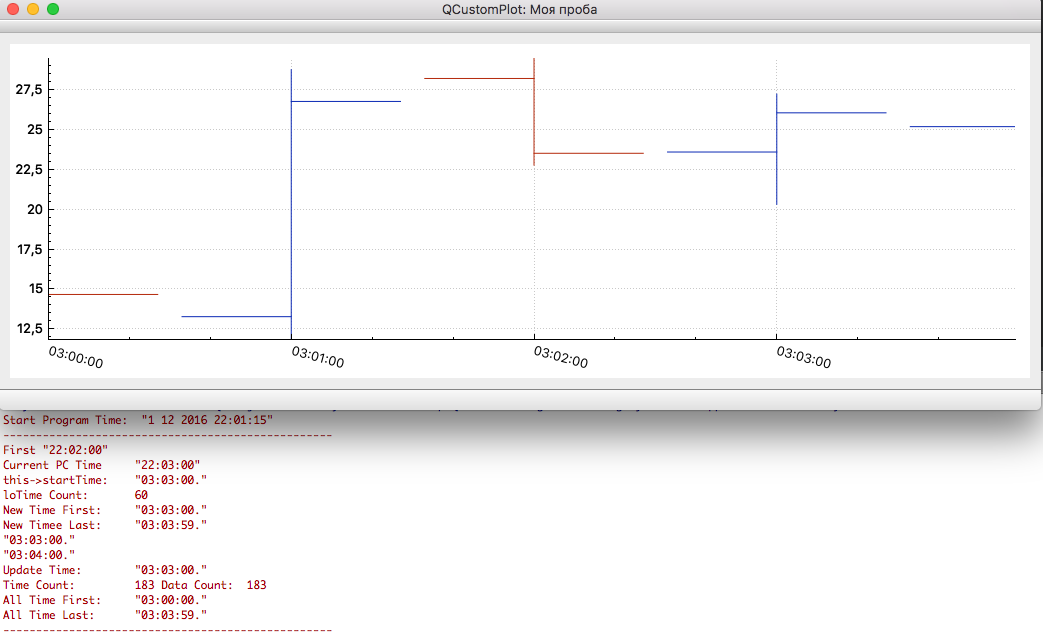
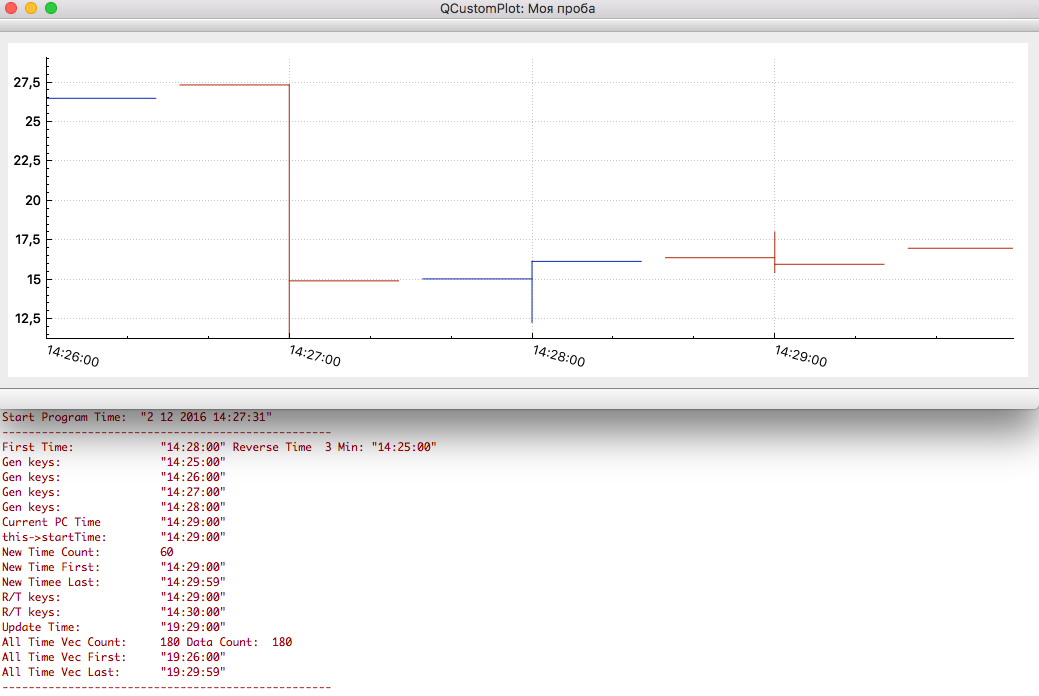
Align debug output

diff --git a/mainwindow.cpp b/mainwindow.cpp
@@ -51,7 +51,8 @@ void MainWindow::everySecSlot()
             QDateTime setupTime = QDateTime(QDate::currentDate(), sqtime );
             setupTime.setTimeSpec(Qt::UTC);
             QDateTime startProgBackTime = setupTime.addSecs( 0-(genTimeMinutes*60) );
-            qDebug() << "First" << setupTime.toString("hh:mm:ss");
+            qDebug() << "First Time:            " << setupTime.toString("hh:mm:ss") << "Reverse Time " << genTimeMinutes << "Min:" << startProgBackTime.toString("hh:mm:ss");
+
             this->startTime         = setupTime.toTime_t();
             this->graphStartTime    = startProgBackTime.toTime_t();
 
@@ -59,6 +60,10 @@ void MainWindow::everySecSlot()
             InitRandomData(volTime, volData, graphStartTime, genTimeMinutes );
 
             QCPFinancialDataMap data2 = QCPFinancial::timeSeriesToOhlc(volTime, volData, timeBinSize, 60);
+            // Debug output
+            QMap<double,QCPFinancialData>::iterator it = data2.begin();
+            for(;it != data2.end(); ++it)
+                qDebug() << "Gen keys:              " << QDateTime::fromTime_t( it.key()  ).toUTC().toString("hh:mm:ss");
 
             ohlc->setData(&data2, true);
             ui->customPlot->rescaleAxes();
@@ -73,22 +78,22 @@ void MainWindow::realtimeMyDataSlot()
 {
 
     QVector<double> loTime, loData;
-    qDebug() << "Current PC Time    " << QTime::currentTime().toString("hh:mm:ss");
+    qDebug() << "Current PC Time        " << QTime::currentTime().toString("hh:mm:ss");
 
     this->startTime += 60;
-    qDebug() << "this->startTime:   " << QDateTime::fromTime_t(this->startTime).toString("hh:mm:ss.");
+    qDebug() << "this->startTime:       " << QDateTime::fromTime_t(this->startTime).toUTC().toString("hh:mm:ss");
 
     InitRandomData(loTime, loData, this->startTime );
 
-    qDebug() << "loTime Count:      " << loTime.count();
-    qDebug() << "New Time First:    " << QDateTime::fromTime_t( loTime.first() ).toString("hh:mm:ss.");
-    qDebug() << "New Timee Last:    " << QDateTime::fromTime_t( loTime.last()  ).toString("hh:mm:ss.");
+    qDebug() << "New Time Count:        " << loTime.count();
+    qDebug() << "New Time First:        " << QDateTime::fromTime_t( loTime.first() ).toUTC().toString("hh:mm:ss");
+    qDebug() << "New Timee Last:        " << QDateTime::fromTime_t( loTime.last()  ).toUTC().toString("hh:mm:ss");
 
     QCPFinancialDataMap dataNew = QCPFinancial::timeSeriesToOhlc(loTime, loData, this->timeBinSize, 0);
 
     QMap<double,QCPFinancialData>::iterator it = dataNew.begin();
     for(;it != dataNew.end(); ++it)
-        qDebug() << QDateTime::fromTime_t( it.key()  ).toString("hh:mm:ss.");
+        qDebug() << "R/T keys:              " << QDateTime::fromTime_t( it.key()  ).toUTC().toString("hh:mm:ss");
 
     // Add local temp new data/time
     ohlc->addData( dataNew );
@@ -106,10 +111,10 @@ void MainWindow::realtimeMyDataSlot()
     // Set Axis size for global time/data
     ui->customPlot->xAxis->setRange( volTime.first(), volTime.last() );
 
-    qDebug() << "Update Time:       " << QDateTime::fromTime_t(this->startTime).toString("hh:mm:ss.");
-    qDebug() << "Time Count:        " << volTime.count() << "Data Count: "  << volData.count();
-    qDebug() << "All Time First:    " << QDateTime::fromTime_t( volTime.first() ).toString("hh:mm:ss.");
-    qDebug() << "All Time Last:     " << QDateTime::fromTime_t( volTime.last()  ).toString("hh:mm:ss.");
+    qDebug() << "Update Time:           " << QDateTime::fromTime_t(this->startTime).toString("hh:mm:ss");
+    qDebug() << "All Time Vec Count:    " << volTime.count() << "Data Count: "  << volData.count();
+    qDebug() << "All Time Vec First:    " << QDateTime::fromTime_t( volTime.first() ).toLocalTime().toString("hh:mm:ss");
+    qDebug() << "All Time Vec Last:     " << QDateTime::fromTime_t( volTime.last()  ).toLocalTime().toString("hh:mm:ss");
 
     ui->customPlot->replot();
     ui->customPlot->rescaleAxes();
@@ -135,9 +140,10 @@ void MainWindow::InitRandomData(QVector<double> &ivolTime, QVector<double> &ivol
     uint mingen = 0;
     do
     {
-        for(int msec = 0; msec <= 60; msec++ )
+        for(int msec = 0; msec < 60; msec++ )
         {
-            if ( !volTime.isEmpty() && !volData.isEmpty() && firstMin )
+            // set _last_ data every one min
+            if ( firstMin )
             {
                 ivolTime.push_back( lostartTime );
                 ivolData.push_back( lastPush );
@@ -152,7 +158,7 @@ void MainWindow::InitRandomData(QVector<double> &ivolTime, QVector<double> &ivol
         }
         firstMin = true;
         mingen++;
-        lostartTime += 1;
+        //lostartTime += 1;
 
     } while(mingen < minuteGen);
 }
@@ -179,13 +185,18 @@ void MainWindow::setupRealMyTimePlot(QCustomPlot *customPlot)
     customPlot->plotLayout()->setRowSpacing(0);
     customPlot->xAxis->setTickLabelType(QCPAxis::ltDateTime);
     customPlot->xAxis->setDateTimeFormat("hh:mm:ss");
+    customPlot->xAxis->setDateTimeSpec(Qt::UTC);
+
     customPlot->xAxis->setTickLabelRotation(15);
     customPlot->xAxis->setAutoTickStep(false);
     customPlot->xAxis->setAutoTickCount(10);
+    customPlot->xAxis->setAutoSubTicks(5);
     //Через сколько отображать _тикет_ со временем на шкале X
     customPlot->xAxis->setTickStep(60); // 600 -> 10 минут
+    customPlot->xAxis->setSubTickCount(6);
 
-    customPlot->xAxis->scaleRange(1.0, customPlot->xAxis->range().center()); // Orig: 1.025
+
+    customPlot->xAxis->scaleRange(1.025, customPlot->xAxis->range().center()); // Orig: 1.025
     customPlot->yAxis->scaleRange(1.1, customPlot->yAxis->range().center());
 
     qDebug() << "--------------------------------------------------";
